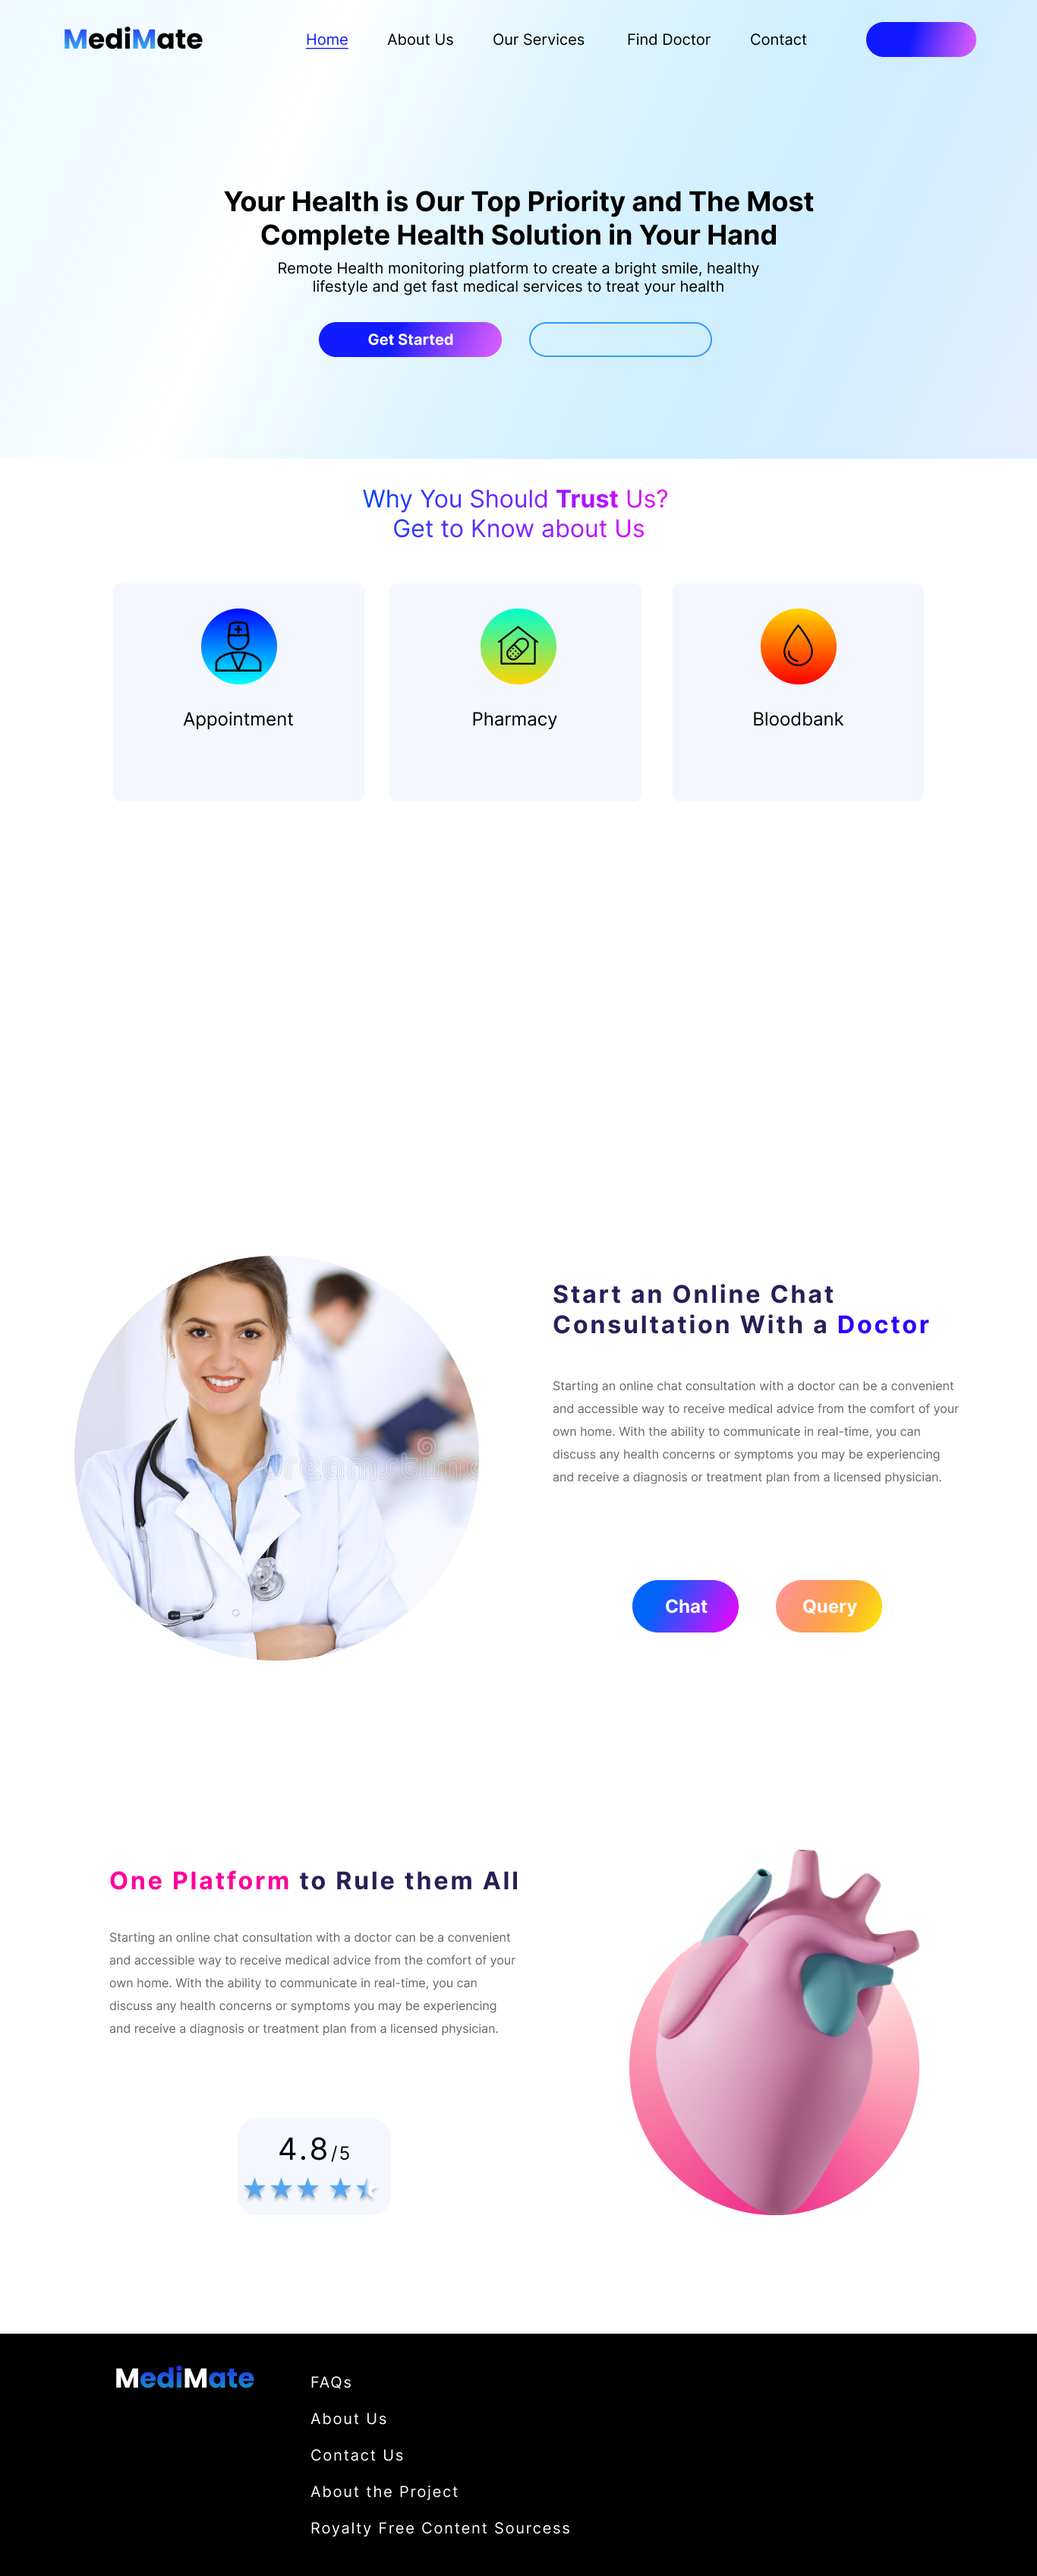
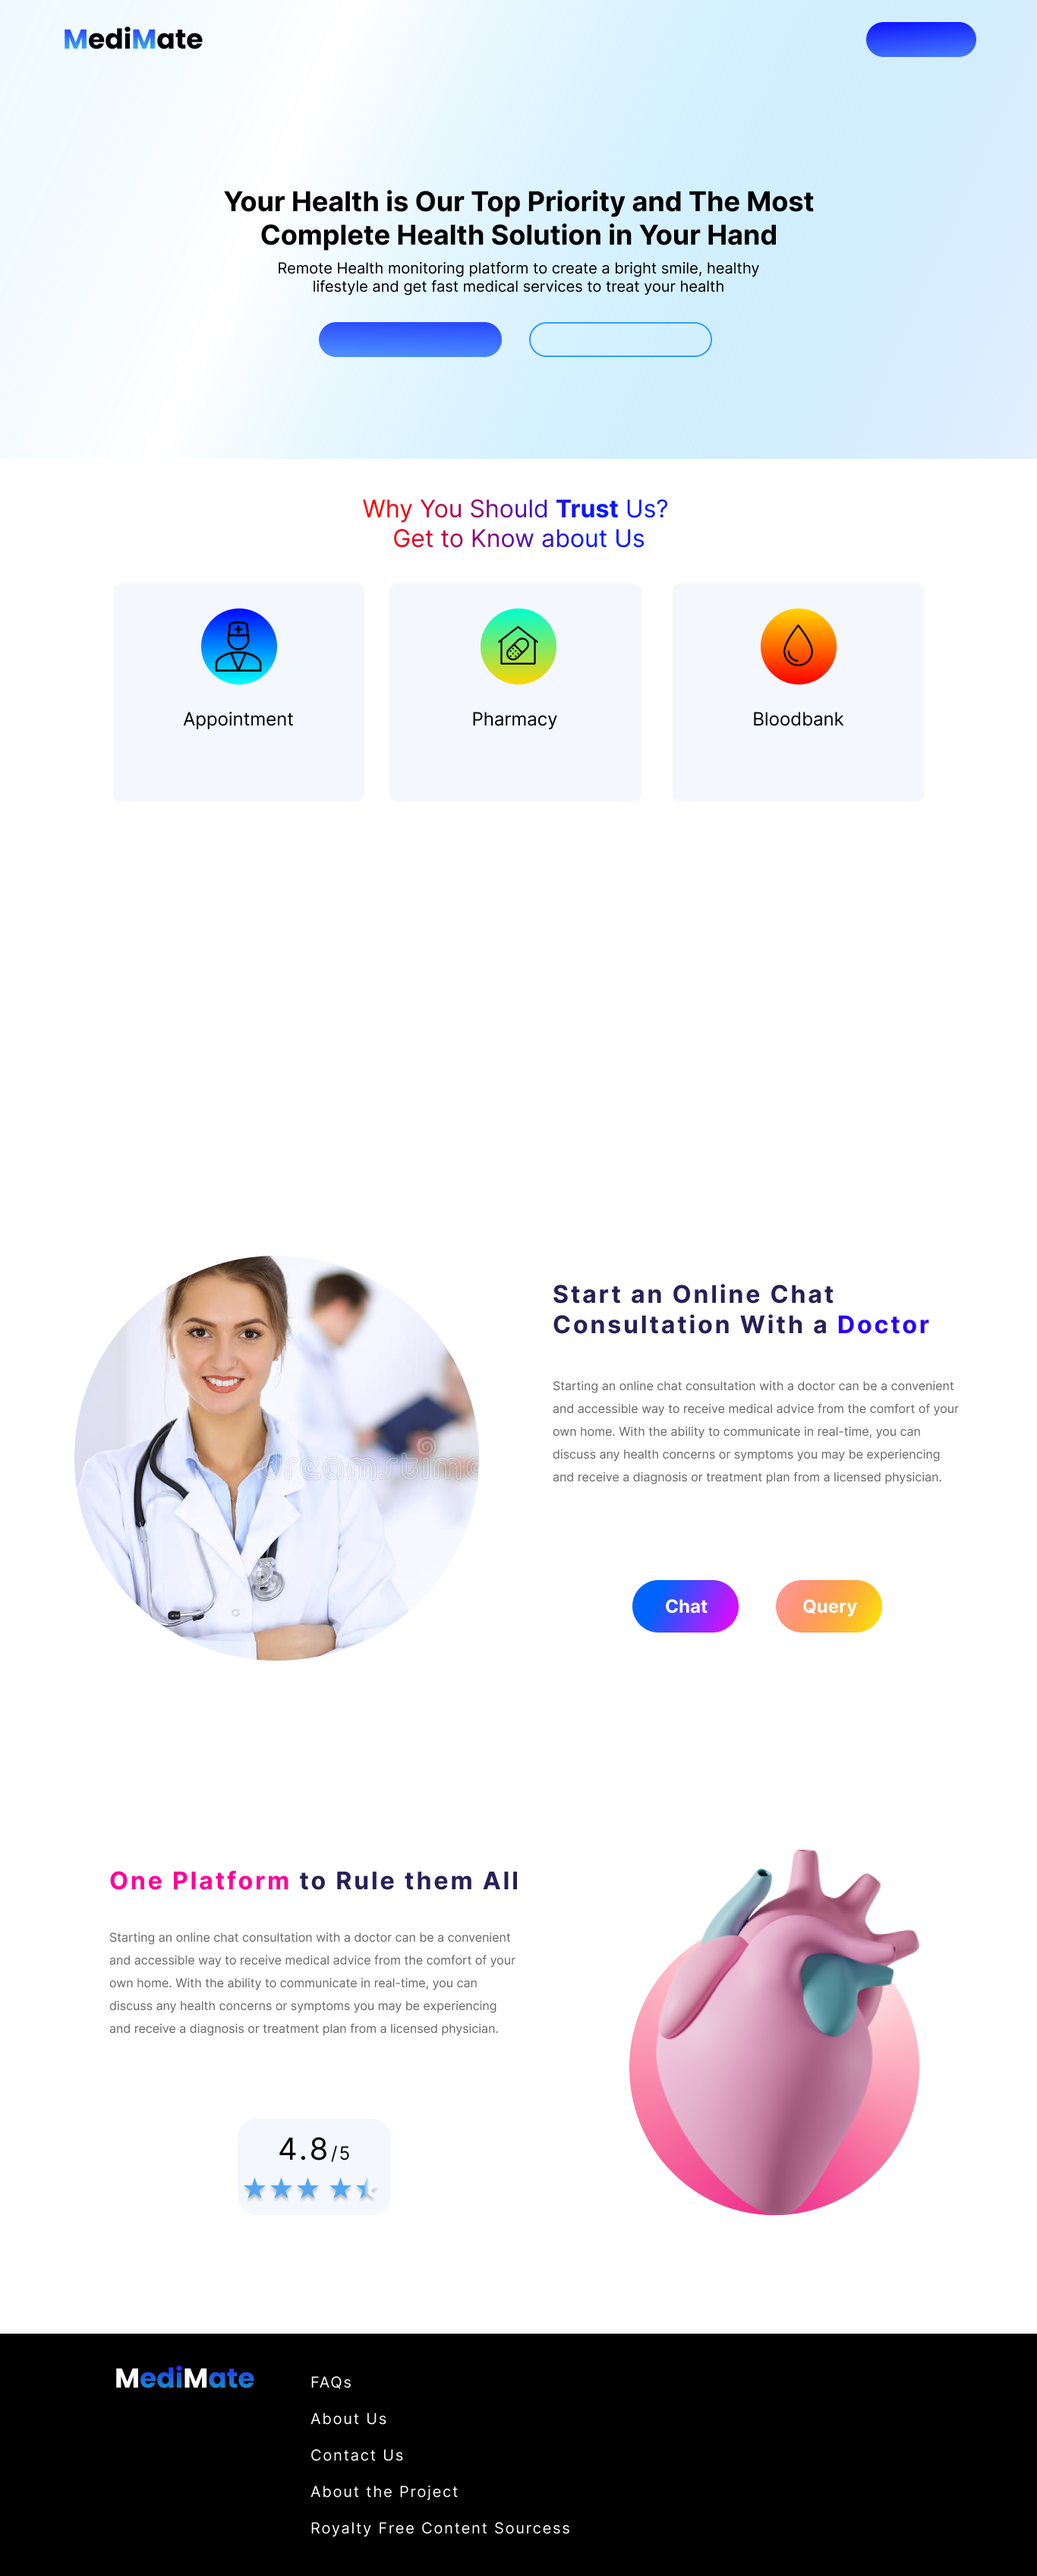
Updated Commit

Changed region(s): [[0.3382, 0.1858, 0.6457, 0.2168], [0.3075, 0.1239, 0.4919, 0.1548], [0.8302, 0.0, 0.9531, 0.031]]

diff --git a/src/main/resources/com/example/medimate/styles/buttons_label.css b/src/main/resources/com/example/medimate/styles/buttons_label.css
@@ -1,0 +1,10 @@
+.button{
+    -fx-background-color: TRANSPARENT;
+    -fx-text-fill: black;
+}
+
+.button:hover{
+    -fx-background-color: TRANSPARENT;
+    -fx-text-fill: blue;
+    -fx-underline: true;
+}

diff --git a/src/main/resources/com/example/medimate/styles/buttonStyles.css b/src/main/resources/com/example/medimate/styles/buttonStyles.css
@@ -1,0 +1,12 @@
+.button{
+    -fx-background-color: TRANSPARENT;
+}
+
+.button:hover{
+    -fx-background-color: #1E90FF;
+}
+
+.button:pressed{
+    -fx-background-color: #462dff;
+}
+

diff --git a/src/main/resources/com/example/medimate/styles/blueButtons.css b/src/main/resources/com/example/medimate/styles/blueButtons.css
@@ -1,0 +1,11 @@
+.button{
+    -fx-background-color: TRANSPARENT;
+}
+
+.button:hover{
+    -fx-background-color: #0d99ff;
+}
+
+.button:pressed{
+    -fx-background-color: #0b76c9;
+}

diff --git a/src/main/java/com/example/medimate/signinpageController.java b/src/main/java/com/example/medimate/signinpageController.java
@@ -10,13 +10,16 @@ import javafx.stage.Stage;
 
 import java.io.IOException;
 
-public class HomepageController {
+public class signinpageController {
     @FXML
     private Button logIn;
 
     @FXML
-    protected void onlogInButtonClick(ActionEvent event) throws IOException {
-        FXMLLoader fxmlLoader = new FXMLLoader(HelloApplication.class.getResource("signInPage.fxml"));
+    private Button createNewAccount;
+
+    @FXML
+    protected void onCreateButtonClick(ActionEvent event) throws IOException {
+        FXMLLoader fxmlLoader = new FXMLLoader(HelloApplication.class.getResource("regPage.fxml"));
         Stage homepage = new Stage();
         Scene scene = new Scene(fxmlLoader.load());
         homepage.setScene(scene);

diff --git a/src/main/java/com/example/medimate/RegistrationController.java b/src/main/java/com/example/medimate/RegistrationController.java
@@ -1,0 +1,4 @@
+package com.example.medimate;
+
+public class RegistrationController {
+}
